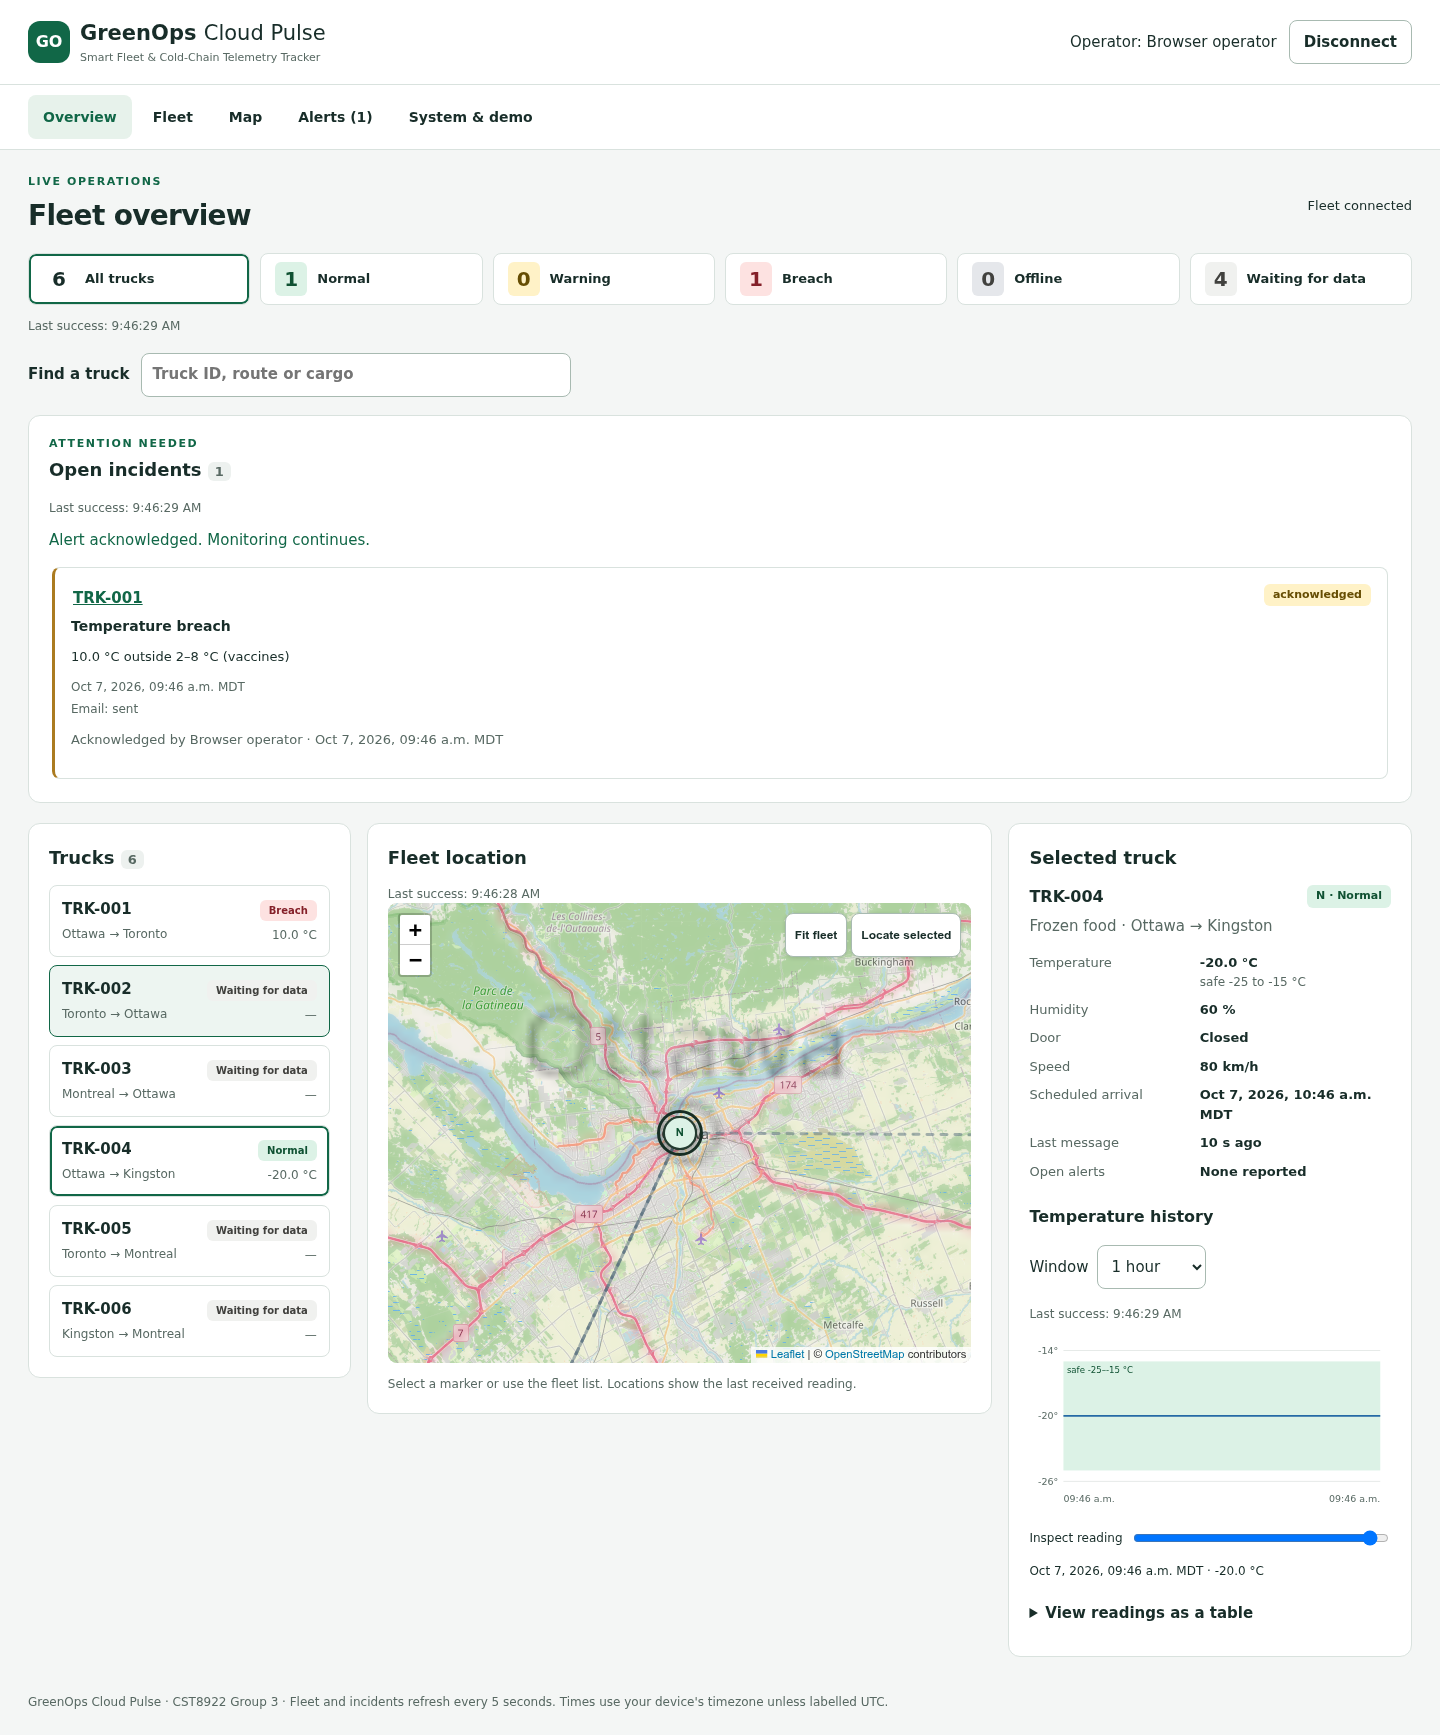
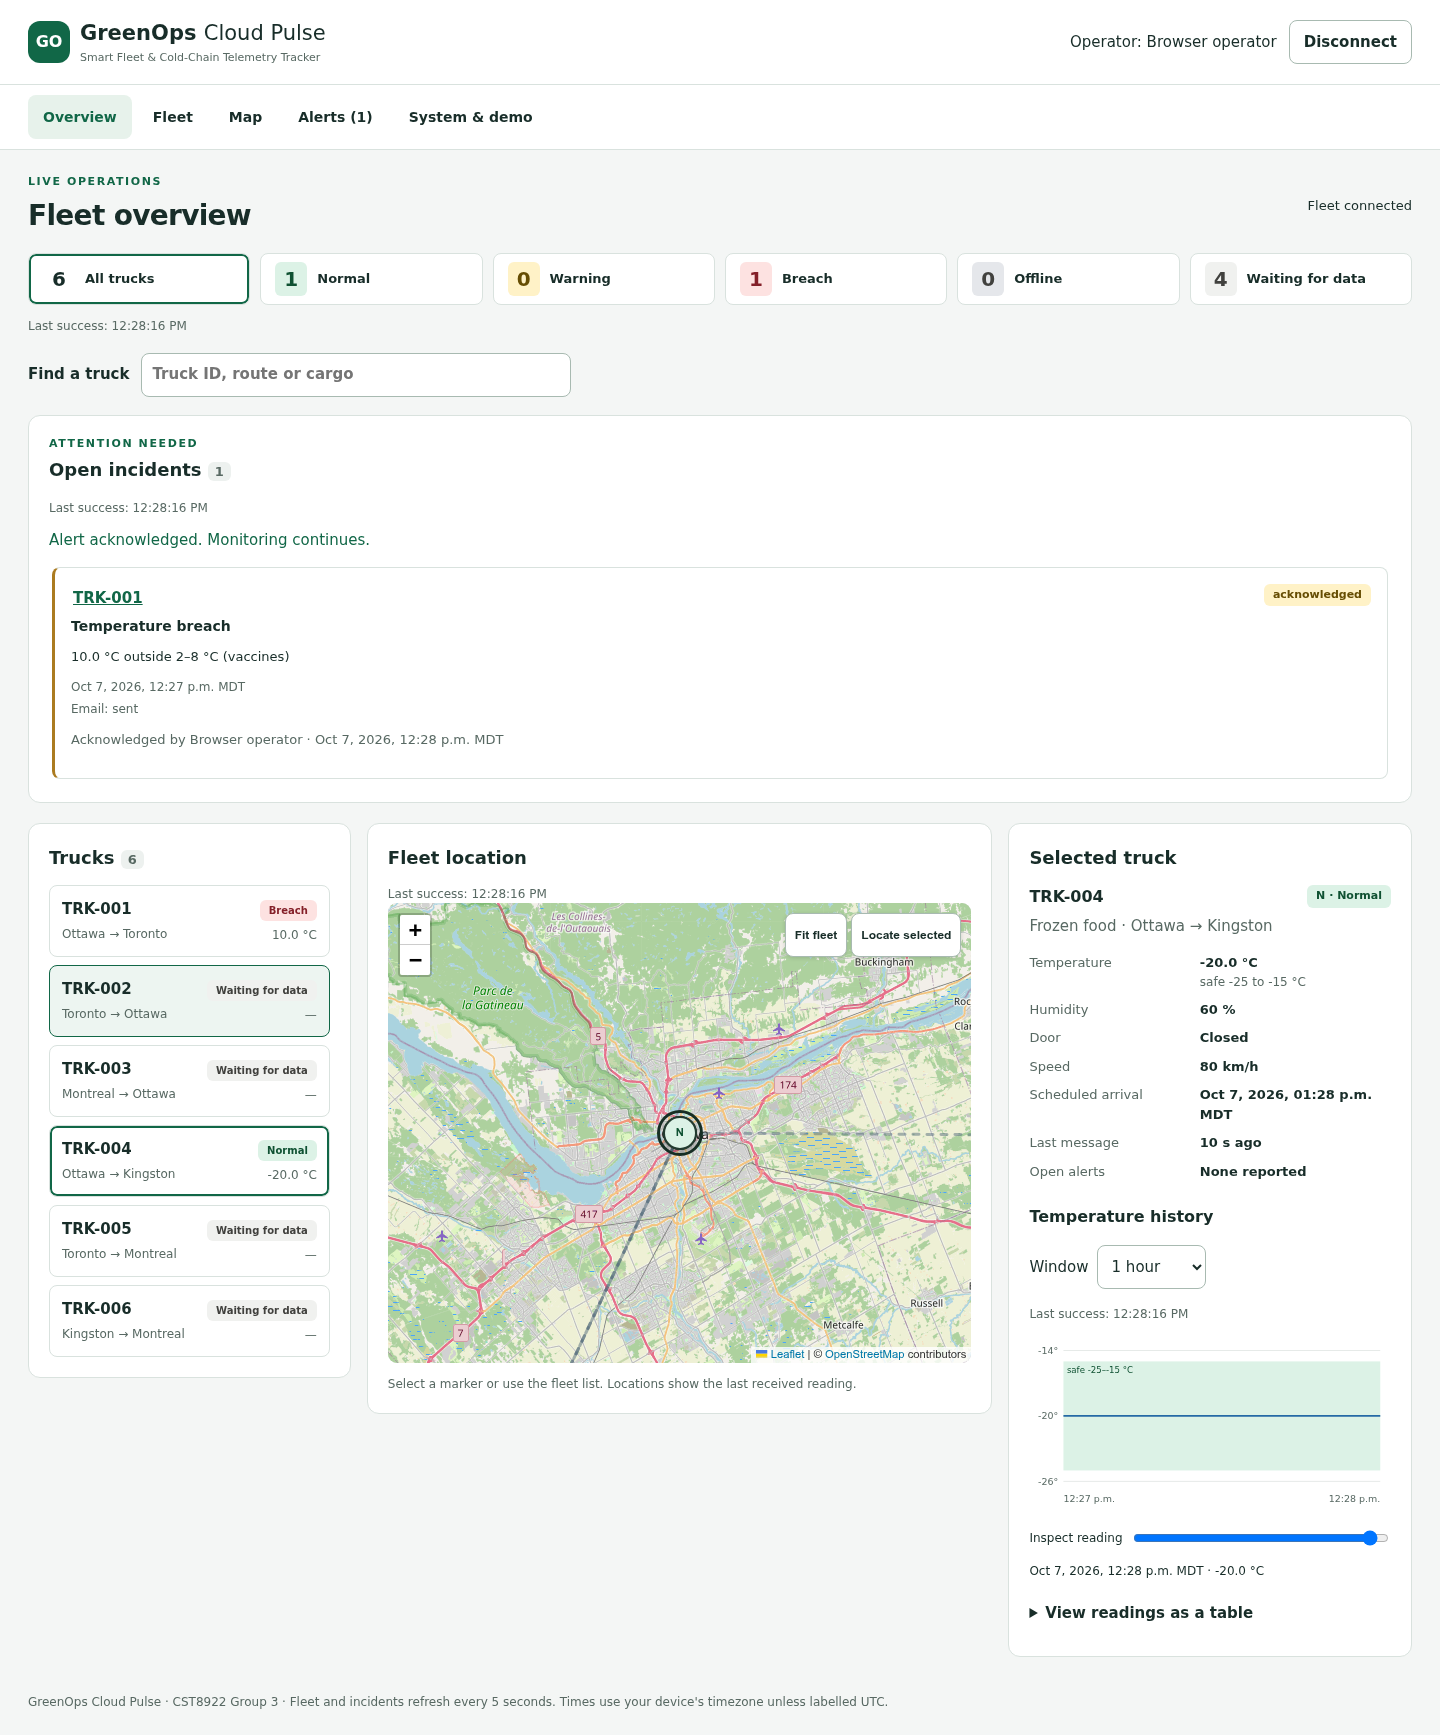
Live feature check of the Azure deployment; keep the Azure build out of dist/
- e2e/azure_live_check.cjs: drives the deployed dashboard in Chromium and checks
  F1-F12 one by one (alerts and emails, acknowledge with an operator key, faults,
  cargo limits, refresh rate, phone layout, no browser errors)
- e2e/azure_live_backend.py: F5 on the real IoT Hub (registered truck accepted,
  unregistered and unknown-CA devices refused) and F6 (archive batch < 10 min)
- deploy_azure_app.sh builds into dashboard/dist-azure, so the local dist/ that
  the browser tests serve is never an Azure build (it made them call Azure)

Changed region(s): [[0.3438, 0.5602, 0.5938, 0.6847], [0.3438, 0.498, 0.375, 0.5291]]

diff --git a/e2e/azure_live_backend.py b/e2e/azure_live_backend.py
@@ -1,0 +1,66 @@
+"""Live checks of the Azure deployment that the browser cannot see (Role 2 – Marcelbriaud Wafotchoupe; Role 4 – Durmusali Unal).
+
+F5: every truck is registered in IoT Hub with its own X.509 certificate and is connected; an unregistered device and a
+    device signed by an unknown CA are refused by the real IoT Hub (FR-03).
+F6: the raw archive in Blob Storage received a new batch within the last 10 minutes (FR-09).
+Usage: python e2e/azure_live_backend.py <resource-group> <iot-hub-name> <storage-account>   (needs: az login, azure-iot ext)
+"""
+import json
+import ssl
+import subprocess
+import sys
+import threading
+from datetime import datetime, timedelta, timezone
+from pathlib import Path
+
+import paho.mqtt.client as mqtt
+
+RG, HUB, STORAGE = sys.argv[1:4]
+CERTS = Path(__file__).resolve().parents[1] / "broker" / "certs"
+TRUCKS = [f"TRK-00{i}" for i in range(1, 7)]
+
+
+def az(*args):
+    return json.loads(subprocess.run(["az", *args, "-o", "json"], check=True, capture_output=True, text=True).stdout)
+
+
+def iot_hub_accepts(device):
+    """Try to sign in to the real IoT Hub with this device's certificate."""
+    host = f"{HUB}.azure-devices.net"
+    c = mqtt.Client(mqtt.CallbackAPIVersion.VERSION2, client_id=device)
+    c.username_pw_set(f"{host}/{device}/?api-version=2021-04-12")
+    c.tls_set(certfile=str(CERTS / f"{device}.crt"), keyfile=str(CERTS / f"{device}.key"), tls_version=ssl.PROTOCOL_TLS_CLIENT)
+    done, result = threading.Event(), {}
+    c.on_connect = lambda cl, u, f, rc, p=None: (result.update(rc=rc), done.set())
+    try:
+        c.connect(host, 8883, keepalive=10)
+    except (OSError, ssl.SSLError):
+        return False
+    c.loop_start()
+    done.wait(10)
+    c.loop_stop()
+    c.disconnect()
+    return result.get("rc") is not None and not result["rc"].is_failure
+
+
+devices = {d["deviceId"]: d for d in az("iot", "hub", "device-identity", "list", "-n", HUB)}
+for t in TRUCKS:
+    d = devices[t]
+    assert d["authenticationType"] == "selfSigned", f"{t} is not using X.509 thumbprint authentication"
+    assert d["connectionState"] == "Connected", f"{t} is not connected"
+assert "TRK-099" not in devices
+# Positive control: a registered truck's certificate is accepted by the same code (TRK-005 is "offline" in the demo,
+# so taking over its connection for a moment does not interrupt live data; the simulator reconnects by itself).
+assert iot_hub_accepts("TRK-005"), "registered device was refused – the check itself is broken"
+assert not iot_hub_accepts("TRK-099"), "unregistered device was accepted"
+assert not iot_hub_accepts("TRK-666"), "device from an unknown CA was accepted"
+print("✓ F5   6 trucks registered with their own X.509 certificate and connected; registered TRK-005 accepted, "
+      "unregistered TRK-099 and unknown-CA TRK-666 refused by Azure IoT Hub")
+
+key = az("storage", "account", "keys", "list", "-n", STORAGE, "-g", RG)[0]["value"]
+blobs = az("storage", "blob", "list", "--account-name", STORAGE, "--account-key", key, "-c", "telemetry-archive",
+           "--prefix", f"{HUB}/telemetry/{datetime.now(timezone.utc):%Y/%m/%d}/", "--num-results", "5000")
+newest = max(datetime.fromisoformat(b["properties"]["lastModified"]) for b in blobs)
+age = datetime.now(timezone.utc) - newest
+assert age < timedelta(minutes=10), f"newest archive batch is {age} old"
+print(f"✓ F6   {len(blobs)} archive batches today in Blob Storage; newest written {int(age.total_seconds())} s ago (FR-09: < 10 min)")

diff --git a/README.md b/README.md
@@ -65,6 +65,14 @@ bash scripts/deploy_azure_app.sh
 bash scripts/start_azure_trucks.sh          # stop: docker compose -f docker-compose.azure.yml down
 ```
 
+Check every feature on the live deployment (set the demo faults first – see the comments at the top of each script):
+
+```bash
+GREENOPS_URL=https://<static web app> GREENOPS_API=https://<function app>/api GREENOPS_OPERATOR_KEY=<key> \
+  node e2e/azure_live_check.cjs                    # F1–F12 in Chromium, the way a dispatcher uses it
+python e2e/azure_live_backend.py <resource-group> <iot-hub> <storage-account>   # F5 certificates, F6 archive
+```
+
 | Local stand-in | Azure (deployed) |
 |---|---|
 | Mosquitto + router | IoT Hub B1 (X.509 thumbprint per truck) + message routes to the Alert Function and Blob archive |
